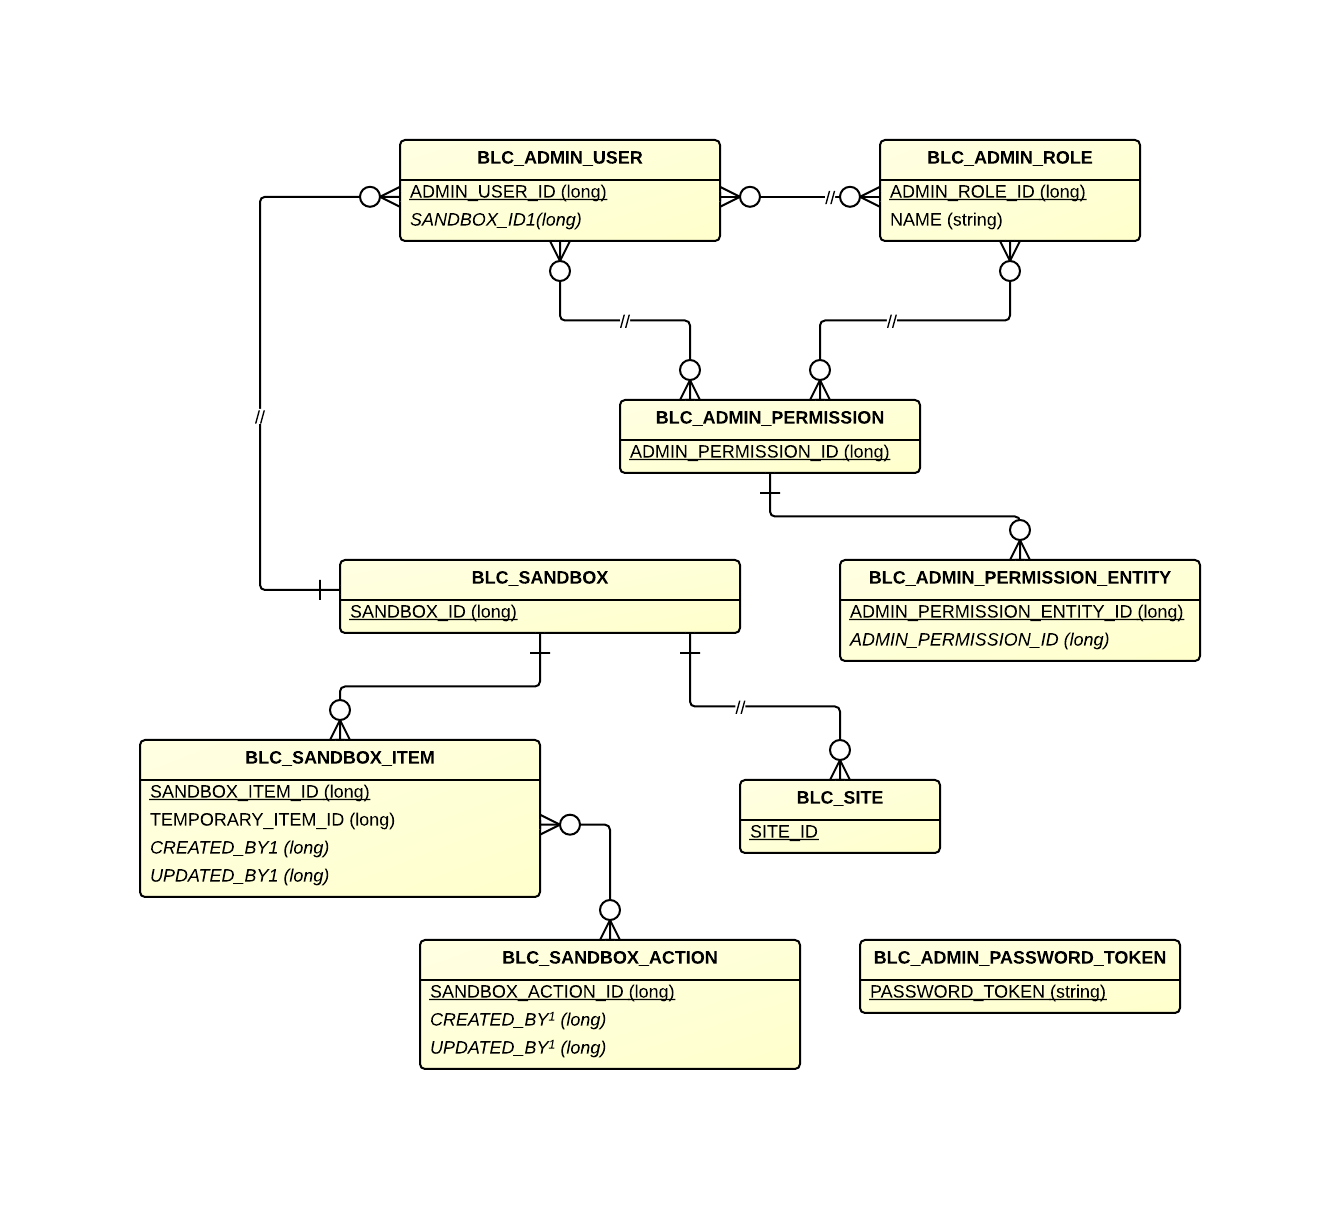
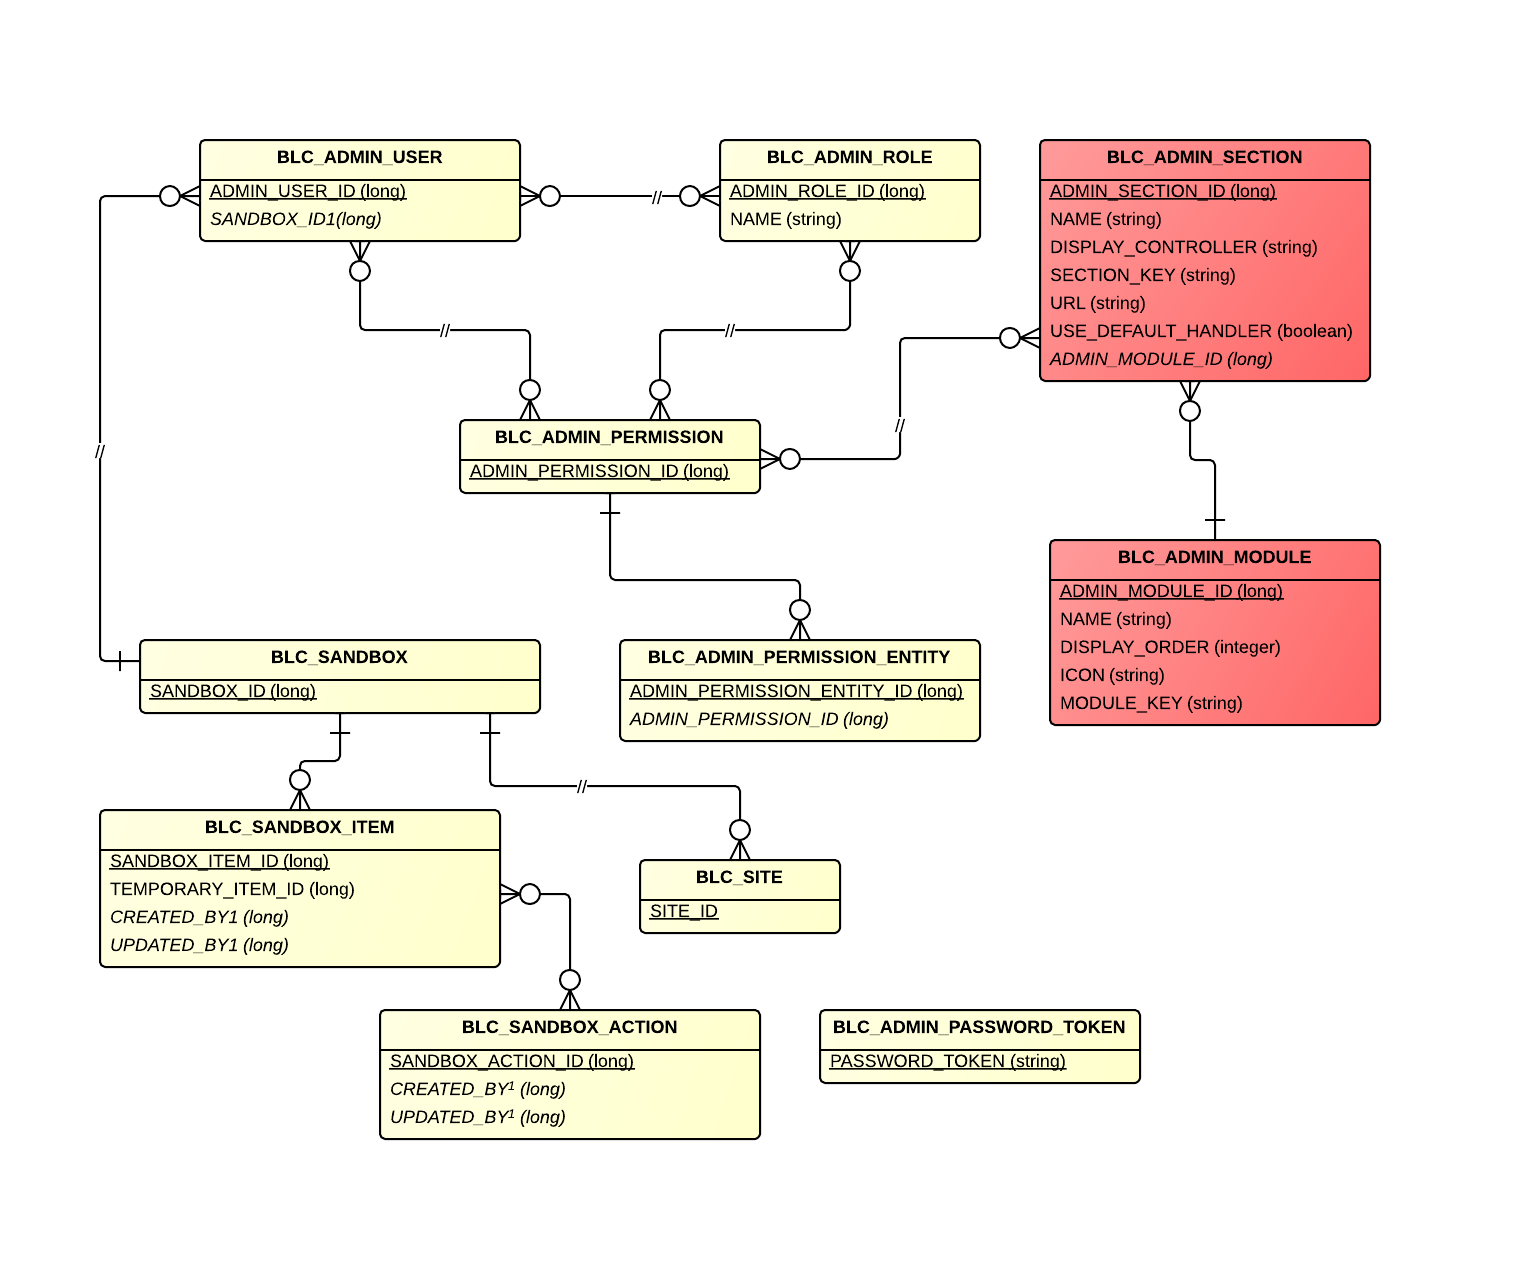
Added admin modules section to Database Models.

Changed region(s): [[0.0625, 0.3978, 0.9062, 0.9181], [0.0625, 0.0918, 0.9062, 0.4285], [0.2812, 0.2448, 0.3125, 0.2754]]

diff --git a/databaseModel/Admin-Modules.md b/databaseModel/Admin-Modules.md
@@ -1,0 +1,15 @@
+
+
+###Detailed ERD
+
+[![Admin Modules Detail](images/dataModel/AdminModulesDetailedERD.png)](images/dataModel/AdminModulesDetailedERD.png)
+
+###Tables
+
+| Table               | Related Entity    | Description                                         |
+|:--------------------|:------------------|:----------------------------------------------------|
+|BLC_ADMIN_MODULE       | [AdminModule.java](http://javadoc.broadleafcommerce.org/current/open-admin-platform/org/broadleafcommerce/openadmin/server/security/domain/AdminModule.html)          | Represents an admin user.  |
+|BLC_ADMIN_SECTION_PERMISSION_XREF | -      | Cross reference table that points to an admin permission.  |
+|BLC_ADMIN_SECTION       | [AdminSection.java](http://javadoc.broadleafcommerce.org/current/open-admin-platform/org/broadleafcommerce/openadmin/server/security/domain/AdminSection.html)          | Represents an admin section.  |
+|BLC_ADMIN_PERMISSION | [AdminPermission.java](http://javadoc.broadleafcommerce.org/current/open-admin-platform/org/broadleafcommerce/openadmin/server/security/domain/AdminPermission.html)          | Represents an admin user permission.  |
+

diff --git a/databaseModel/Database-Model.md b/databaseModel/Database-Model.md
@@ -1,6 +1,14 @@
-##Broadleaf Commerce 2.1.0
+##Broadleaf Commerce 2.2.0
 
-###2.0 to 2.1 Model Changes
+###2.1 to 2.2 Model Changes
+- In [[[Admin | Admin Model]]
+	- New Table: BLC_ADMIN_MODULE
+	- New Table: BLC_ADMIN_SECTION
+	- New Table: BLC_ADMIN_SECTION_PERMISSION_XREF
+
+
+
+
 - In [[Customer | Customer Detail]]
 	- New Table: BLC_CUSTOMER_PAYMENT
 - In [[Search | Catalog Search]]
@@ -10,6 +18,7 @@
 ###Diagrams
 - [[Admin | Admin Model]]
 	- [[Change Sets | Admin Change Sets]]
+	- [[Modules | Admin Modules]]
 	- [[Security | Admin Security]]
 - [[Catalog]]
  	- [[Category | Catalog Category]]

diff --git a/databaseModel/Admin-Model.md b/databaseModel/Admin-Model.md
@@ -1,5 +1,6 @@
 ###Detailed Diagrams
 - [[Change Sets | Admin Change Sets]]
+- [[Modules | Admin Modules]]
 - [[Security | Admin Security]]
 
 ###High Level Diagram
